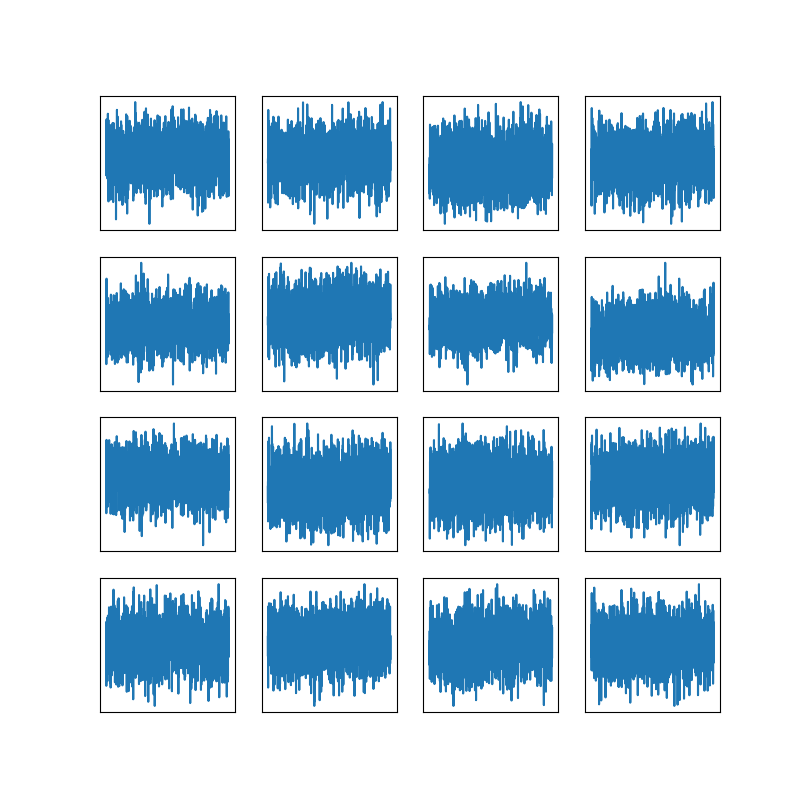
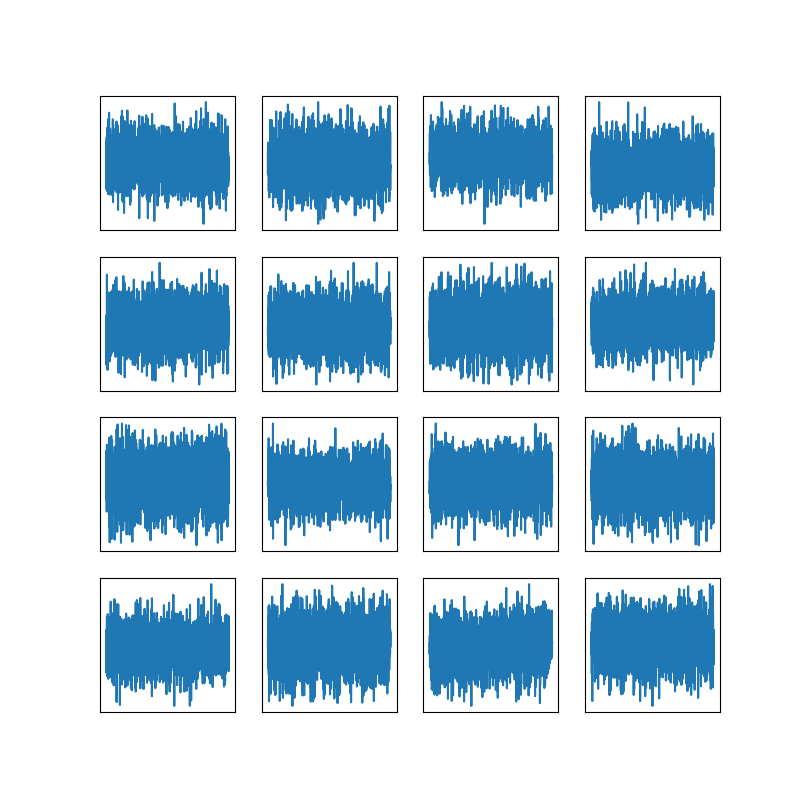
all runs

diff --git a/Train_DCGAN1D.py b/Train_DCGAN1D.py
@@ -10,15 +10,15 @@ from preprocessing import Dataset
 import spectral_analysis as sa
 
 
-lr = 5e-4#5e-4
+lr = 8e-6#5e-4
 beta1 = 0.3
 beta2 = 0.80
 epoch_num = 70
-batch_size = 512
+batch_size = 216
 nz = 100  # length of noise
 ngpu = 0
 device = torch.device("cuda:0" if torch.cuda.is_available() else "cpu")
-device = torch.device("mps")
+device = torch.device("cpu")
 dtype = torch.float32
 
 ### GAUSS
@@ -68,40 +68,11 @@ pulse_2_Y_imag=pulse_2.X.imag
 pulse_2_Y_abs_tensor = torch.tensor(np.abs(pulse_2.Y), requires_grad=True, device=device, dtype=dtype).reshape(1,signal_len)
 
 
-pulse_1.fourier()
-
-
-
-
-    x = torch.tensor([pulse_1.Y.real, pulse_1.Y.imag], requires_grad=True, device=device_, dtype=dtype_)
-    x = x.reshape(signal_len, 2)
-    pulse_1_torch_Y = torch.view_as_complex(x)
-    pulse_1_torch_Y = pulse_1_torch_Y.reshape(1, signal_len)
-    #print(pulse_1_torch_Y.shape)
-    #print(torch.exp(1j*results).shape)
-    pulse_1_torch_Y = torch.mul(pulse_1_torch_Y, torch.exp(1j*results))
-    pulse_1_torch_Y = torch.fft.ifft(pulse_1_torch_Y)
-    pusle_1_Y_abs_tensor = pulse_1_torch_Y.abs()
-    #pulse_1_conc_result_torch= torch.concatenate((pulse_1_torch_Y.real, pulse_1_torch_Y.imag), axis=1)
-    loss = criterion(pusle_1_Y_abs_tensor, pulse_2_Y_abs_tensor) # Calculate Loss/criterion
-    
-    loss.backward() # backward propagation
-    optimizer.step() # Updating parameters
-    loss_list.append(loss.data) # store loss
-    
-    # print loss
-    if epoch % 500 == 0:
-        pulse_1.Y = pulse_1.Y*np.exp(1j*results.clone().detach().numpy().reshape(signal_len,))
-        pulse_1.inv_fourier()   
-        sa.plot(pulse_1, title=f'reconstructed_{epoch}' , save=True)
-        pulse_1.fourier()
-        print('epoch {}, loss {}'.format(epoch, loss.data))
-
-
-def main():
+def main(pulse_1_):
     # load training data
     trainset = Dataset('./data_hermit/')
-
+    pulse_1_tensor_Y=torch.tensor(pulse_1_.Y.copy(), requires_grad=True, device=device, dtype=dtype)
+    pulse_1_tensor_Y_F=torch.fft.fft(pulse_1_tensor_Y)
     trainloader = torch.utils.data.DataLoader(
         trainset, batch_size=batch_size, shuffle=True
     )
@@ -110,7 +81,7 @@ def main():
     netD = Discriminator().to(device)
     netD.apply(weights_init)
 
-    netG = Generator(nz).to(device)
+    netG = Generator(nz, pulse_1_tensor_Y_F).to(device)
     netG.apply(weights_init)
 
 
@@ -143,13 +114,17 @@ def main():
             # train netG
             noise = torch.randn(b_size, nz, 1, device=device)
             fake = netG(noise)
+            pulse_transformed = torch.mul(pulse_1_tensor_Y_F, torch.exp(1j*fake))
+            pulse_transformed_ifft = torch.fft.ifft(pulse_transformed)
+            pulse_abs = pulse_transformed_ifft.abs()
             label.fill_(fake_label)
-            output = netD(fake.detach()).view(-1)
+            output = netD(pulse_abs.detach()).view(-1)
             errD_fake = criterion(output, label)
             errD_fake.backward()
             D_G_z1 = output.mean().item()
             errD = errD_real + errD_fake
             optimizerD.step()
+            #optimizerD.zero_grad()
             netG.zero_grad()
 
             label.fill_(real_label)
@@ -158,6 +133,7 @@ def main():
             errG.backward()
             D_G_z2 = output.mean().item()
             optimizerG.step()
+            #optimizerG.zero_grad()
 
             print('[%d/%d][%d/%d]\tLoss_D: %.4f\tLoss_G: %.4f\tD(x): %.4f\tD(G(z)): %.4f / %.4f'
                   % (epoch, epoch_num, step, len(trainloader),
@@ -181,4 +157,4 @@ def main():
 
 
 if __name__ == '__main__':
-    main()
+    main(pulse_1)

diff --git a/dcgan.py b/dcgan.py
@@ -1,3 +1,4 @@
+import torch
 import torch.nn as nn
 import torchvision.datasets as dataset
 
@@ -43,7 +44,8 @@ class Discriminator(nn.Module):
 
 
 class Generator(nn.Module):
-    def __init__(self, nz):
+    def __init__(self, nz, pulse_Y):
+        self.pulse_Y_ = pulse_Y
         super().__init__()
         self.main = nn.Sequential(
             nn.ConvTranspose1d(nz, 512, 114, 1, 0, bias=False),
@@ -64,8 +66,11 @@ class Generator(nn.Module):
 
             nn.ConvTranspose1d(64, 1, 4, 2, 1, bias=False),
             nn.Tanh()
+            
+            
         )
 
     def forward(self, x):
         x = self.main(x)
+        
         return x
